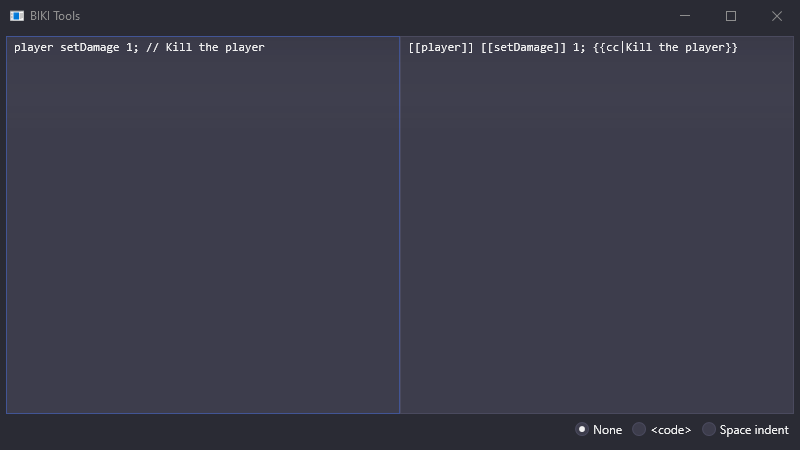
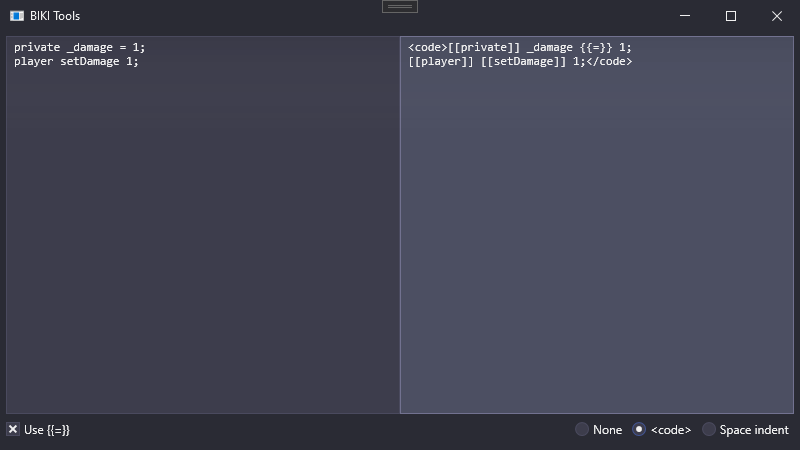
update readme and changelog

diff --git a/CHANGELOG.md b/CHANGELOG.md
@@ -5,6 +5,8 @@ The format is based on [Keep a Changelog](https://keepachangelog.com/en/1.0.0/),
 and this project adheres to [Semantic Versioning](https://semver.org/spec/v2.0.0.html).
 
 ## [Unreleased]
+### Added
+- Option to replace = with {{=}}
 
 ## [1.1.0] - 2021-07-05
 ### Added
